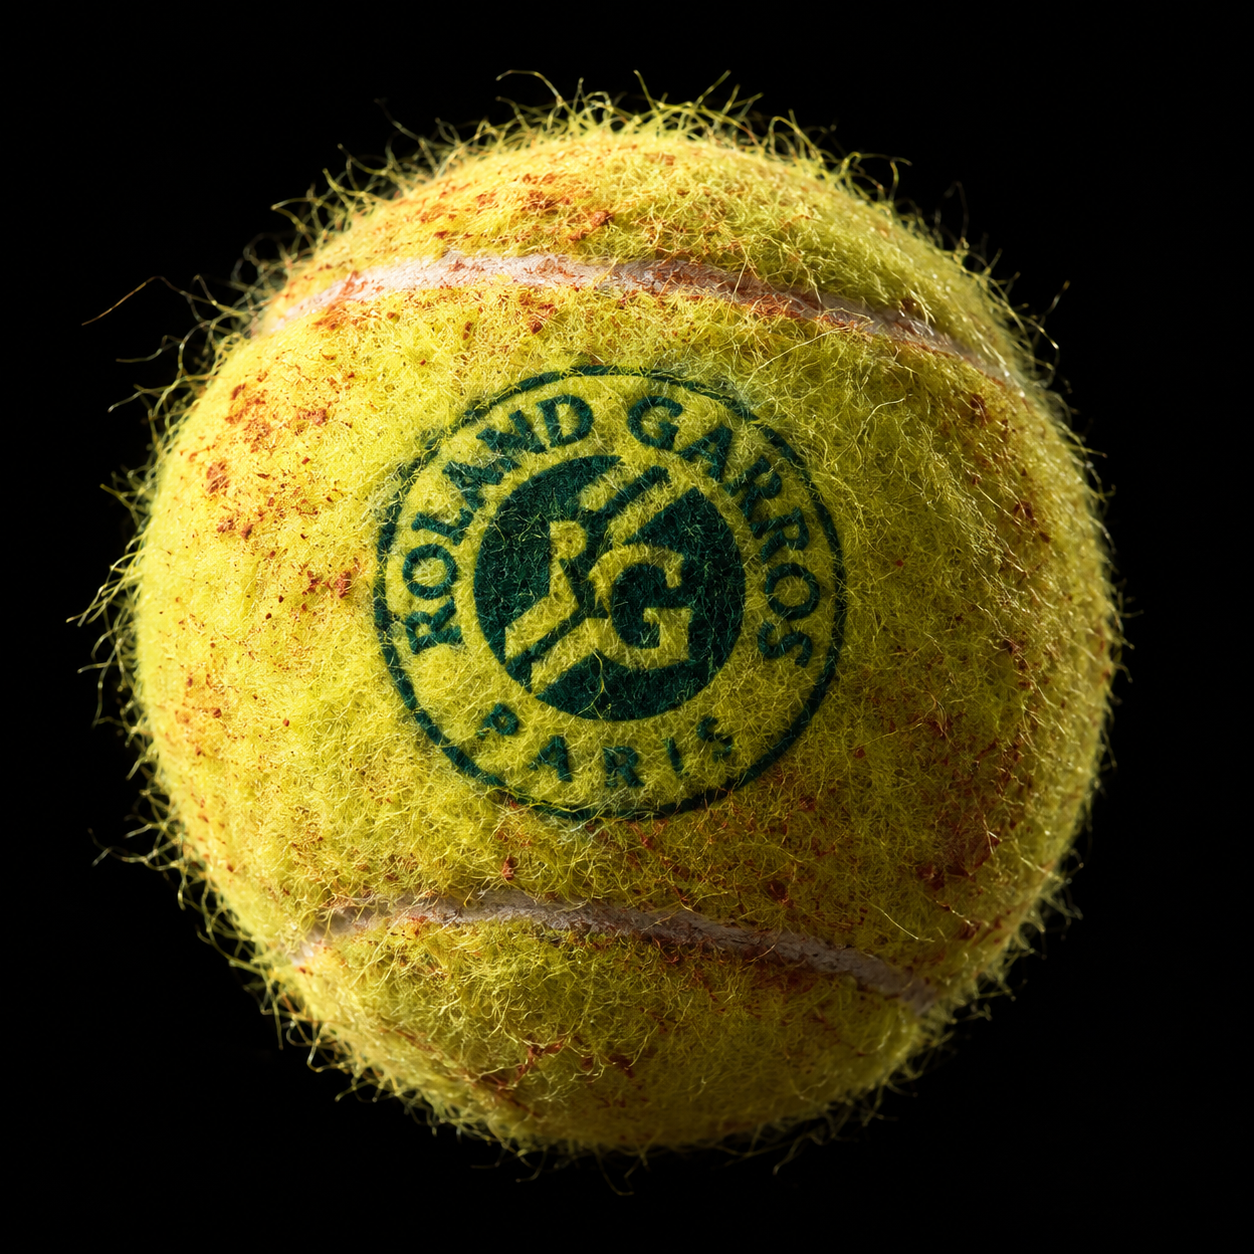
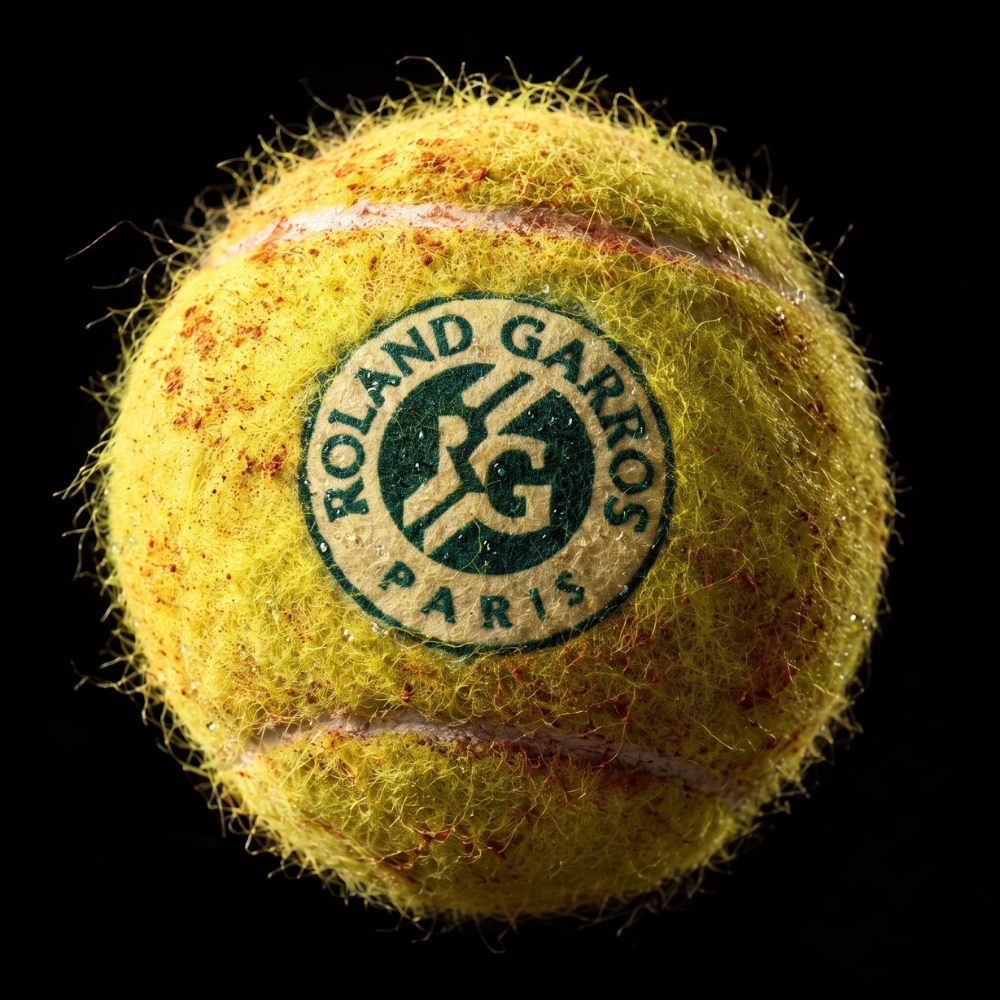
Pelota sin fondo: alpha real y recorrido ajustado
- Reemplazada la pelota por PNG transparente (felpa detallada, surcos blancos)
- Sin blend screen: drop-shadow real y mejor integracion con la arcilla
- Timeline recalibrada: trigger en top-top, entrada visible antes, caida final mas dramatica

diff --git a/script.js b/script.js
@@ -124,16 +124,16 @@ document.addEventListener('DOMContentLoaded', () => {
     if (court) {
       const ballImg = court.querySelector('.court-ball__img');
       const shadow = court.querySelector('.court-ball__shadow');
-      gsap.set(ballImg, { yPercent: -105, xPercent: 46, rotate: -24, scale: .62 });
+      gsap.set(ballImg, { yPercent: -130, xPercent: 52, rotate: -30, scale: .55 });
       gsap.set(shadow, { opacity: 0, scale: .45 });
-      const ballTl = gsap.timeline({ scrollTrigger: { trigger: court, start: 'top 60%', end: 'bottom bottom', scrub: .9 } });
+      const ballTl = gsap.timeline({ scrollTrigger: { trigger: court, start: 'top top', end: 'bottom bottom', scrub: .9 } });
       ballTl
-        .to(ballImg, { yPercent: -6, xPercent: 30, rotate: 8, scale: 1, duration: 1, ease: 'power2.out' }, 0)
+        .to(ballImg, { yPercent: 2, xPercent: 34, rotate: 10, scale: 1, duration: 1, ease: 'power2.out' }, 0)
         .to(shadow, { opacity: .75, scale: 1, duration: 1, ease: 'power2.out' }, 0)
-        .to(ballImg, { yPercent: -16, xPercent: -18, rotate: 96, scale: 1.24, duration: 1.8, ease: 'none' }, 1)
-        .to(shadow, { scale: 1.35, opacity: .45, y: 10, duration: 1.8, ease: 'none' }, 1)
-        .to(ballImg, { yPercent: 20, xPercent: -42, rotate: 168, scale: .94, duration: 1.6, ease: 'power1.in' }, 2.8)
-        .to(shadow, { scale: 1, opacity: .7, y: 0, duration: 1.6, ease: 'power1.in' }, 2.8);
+        .to(ballImg, { yPercent: -10, xPercent: -14, rotate: 100, scale: 1.22, duration: 1.8, ease: 'none' }, 1)
+        .to(shadow, { scale: 1.32, opacity: .48, y: 10, duration: 1.8, ease: 'none' }, 1)
+        .to(ballImg, { yPercent: 26, xPercent: -40, rotate: 170, scale: .92, duration: 1.6, ease: 'power1.in' }, 2.8)
+        .to(shadow, { scale: .95, opacity: .7, y: 0, duration: 1.6, ease: 'power1.in' }, 2.8);
       gsap.from('.court-copy > *', { y: 50, opacity: 0, stagger: .12, duration: 1, ease: 'expo.out', scrollTrigger: { trigger: court, start: 'top 32%', once: true } });
     }
   }

diff --git a/index.html b/index.html
@@ -86,7 +86,7 @@
       .court-ground::after { content:''; position:absolute; inset:0; background:radial-gradient(ellipse 92% 64% at 50% 46%,transparent 28%,rgba(14,7,4,.68) 100%); }
       .court-lines { position:absolute; inset:0; pointer-events:none; opacity:.45; background:linear-gradient(0deg,transparent 64%,rgba(240,238,233,.3) 64.2%,rgba(240,238,233,.3) 64.6%,transparent 65%),linear-gradient(0deg,transparent 79%,rgba(240,238,233,.2) 79.2%,rgba(240,238,233,.2) 79.5%,transparent 80%); mask-image:linear-gradient(180deg,transparent 20%,#000 62%); -webkit-mask-image:linear-gradient(180deg,transparent 20%,#000 62%); }
       .court-ball { position:sticky; top:0; height:100vh; margin:0; margin-top:-100vh; display:grid; place-items:center; pointer-events:none; z-index:2; }
-      .court-ball__img { width:clamp(300px,46vmin,560px); height:auto; display:block; mix-blend-mode:screen; filter:contrast(1.06) saturate(1.04) drop-shadow(0 40px 70px rgba(0,0,0,.5)); will-change:transform; }
+      .court-ball__img { width:clamp(300px,46vmin,560px); height:auto; display:block; filter:contrast(1.04) saturate(1.02) drop-shadow(0 40px 70px rgba(0,0,0,.55)); will-change:transform; }
       .court-ball__shadow { position:absolute; left:50%; bottom:11vh; width:min(340px,36vw); height:34px; transform:translateX(-50%); border-radius:50%; background:radial-gradient(ellipse,rgba(4,2,0,.75) 0%,transparent 60%); filter:blur(8px); will-change:transform,opacity; }
       .court-copy { position:absolute; z-index:3; left:8vw; top:13vh; max-width:480px; }
       .court-copy h2 { margin:0; font:800 clamp(2.8rem,6vw,5.6rem)/.9 var(--sans); letter-spacing:-.06em; text-wrap:balance; text-shadow:0 4px 18px rgba(8,4,0,.45); }
